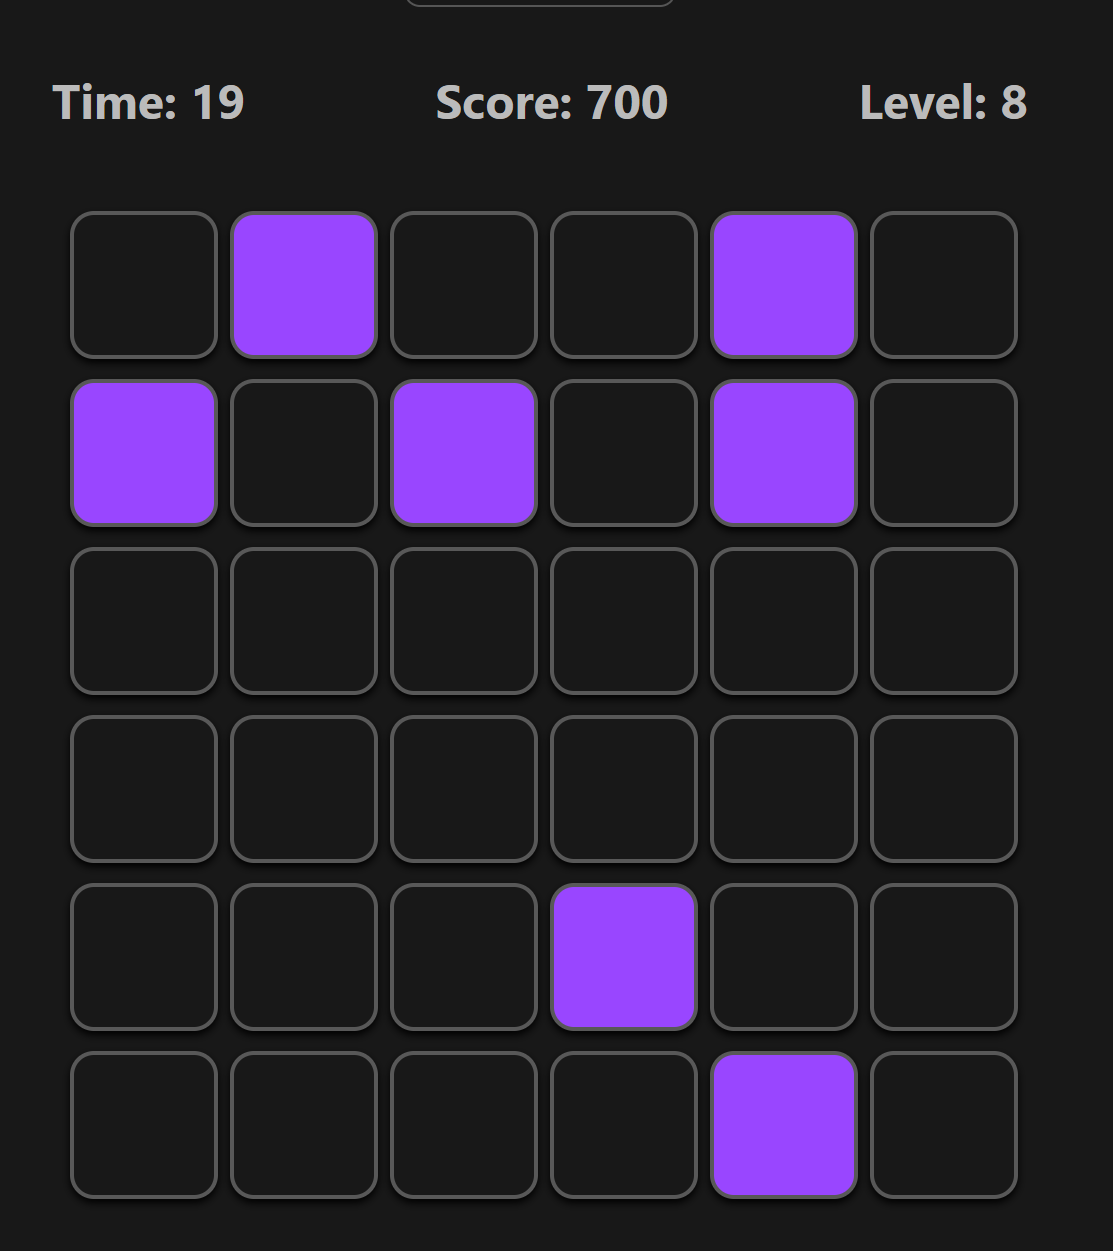
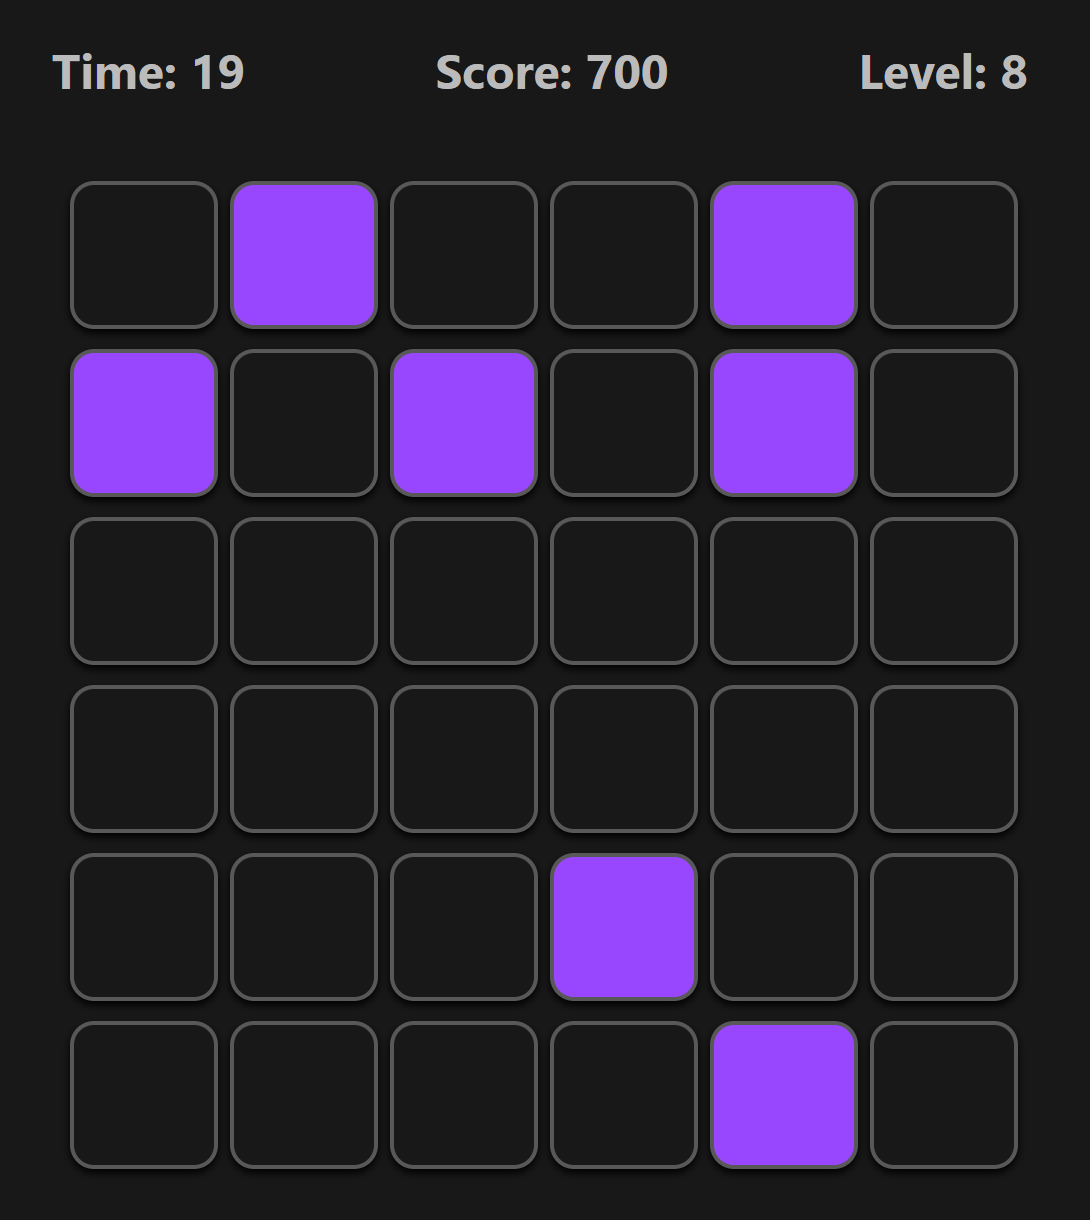
Fixed styling

diff --git a/scripts/app.js b/scripts/app.js
@@ -59,10 +59,6 @@ function init() {
     }
 
     function handleTileClick(event) {
-        const clickSound = document.querySelector("#clickSound");
-        clickSound.currentTime = 0; 
-        clickSound.play();
-
         if(!clickable || !gameActive) {
             return;
         }
@@ -72,6 +68,9 @@ function init() {
         }
         selectedTiles.push(tile);
         if(correctTiles.includes(tile)) {
+            const clickSound = document.querySelector("#clickSound");
+            clickSound.currentTime = 0; 
+            clickSound.play();
             tile.classList.add("selected");
         } else {
             tile.classList.add("wrong");
@@ -150,10 +149,6 @@ function init() {
     }
 
     function endGame() {
-        // const gameOverSound = document.querySelector("#gameOverSound)");
-        // gameOverSound.currentTime = 0; 
-        // gameOverSound.play();
-        
         clickable = false;
         for(let i=0; i<tiles.length; i++) {
             tiles[i].classList.add("disabled");

diff --git a/index.html b/index.html
@@ -21,7 +21,7 @@
         <div class="popup popup-hidden">
             <div class="popup-content">
                 <h2>Instructions</h2>
-                <p>Click on the tiles to reveal them. Match the tiles to score points.</p>
+                <p>At each level, tiles briefly light up, your goal is to click the same tiles<br> from memory. Each correct level advances you, but one wrong tile or running out <br>of time ends the game. Reach level 7 within 30 seconds to win!</p>
                 <div class="popup-images">
                     <img src="./assets/example.png" alt="Preview Example">
                     <img src="./assets/wrongExample.png" alt="Wrong Answer Example">

diff --git a/styles/main.css b/styles/main.css
@@ -1,10 +1,13 @@
+html, body {
+    height: 100%;
+}
+
 body {
     background-color: #0f0f13;
     color: #f0f0f0;
     font-family: "Jersey 25", sans-serif;
     margin: 0;
     padding: 0;
-    height: 900px;
     display: flex;
     flex-direction: column;
     align-items: center;
@@ -15,7 +18,7 @@ body {
     display: flex;
   flex-direction: column;
   align-items: center;
-  margin-top: -5px;
+  margin-top: -20px;
 }
 
 .title {
@@ -117,6 +120,12 @@ body {
     display: flex;
     flex-direction: column;
     align-items: center;
+    text-align: center;
+    line-height: 35px;
+}
+
+.popup-content p {
+    margin-top: -5px;
 }
 
 .popup img {
